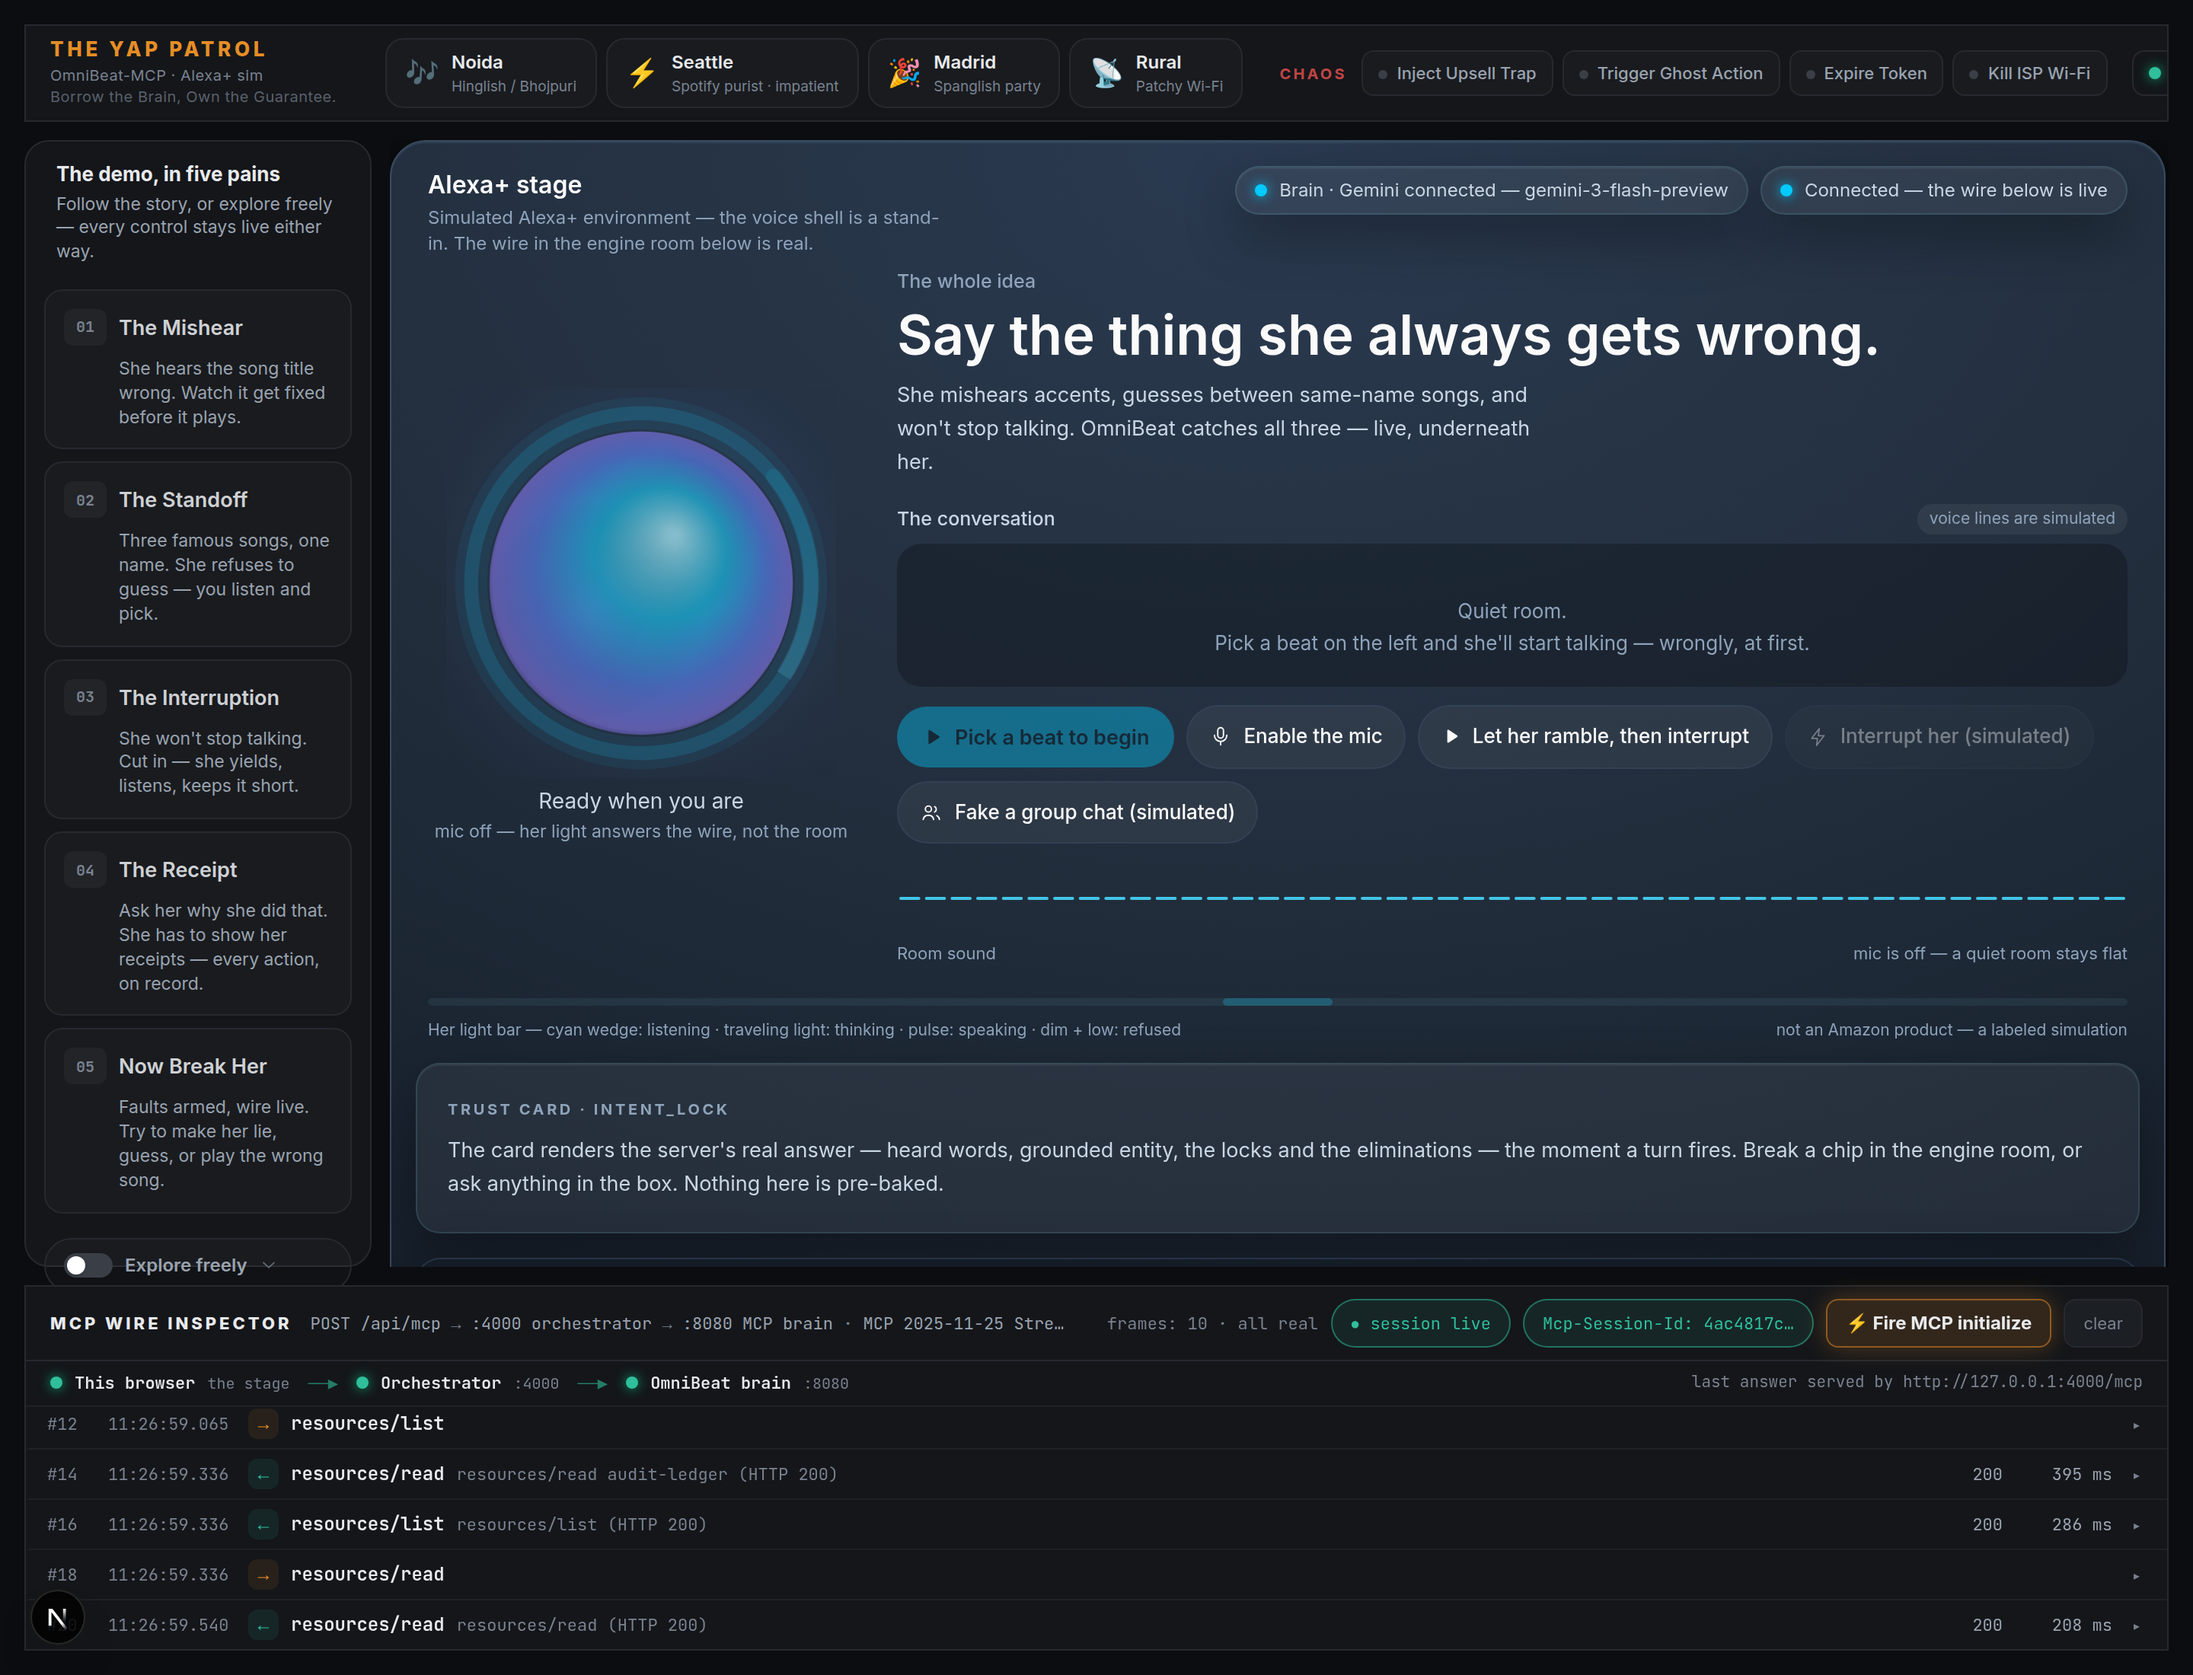
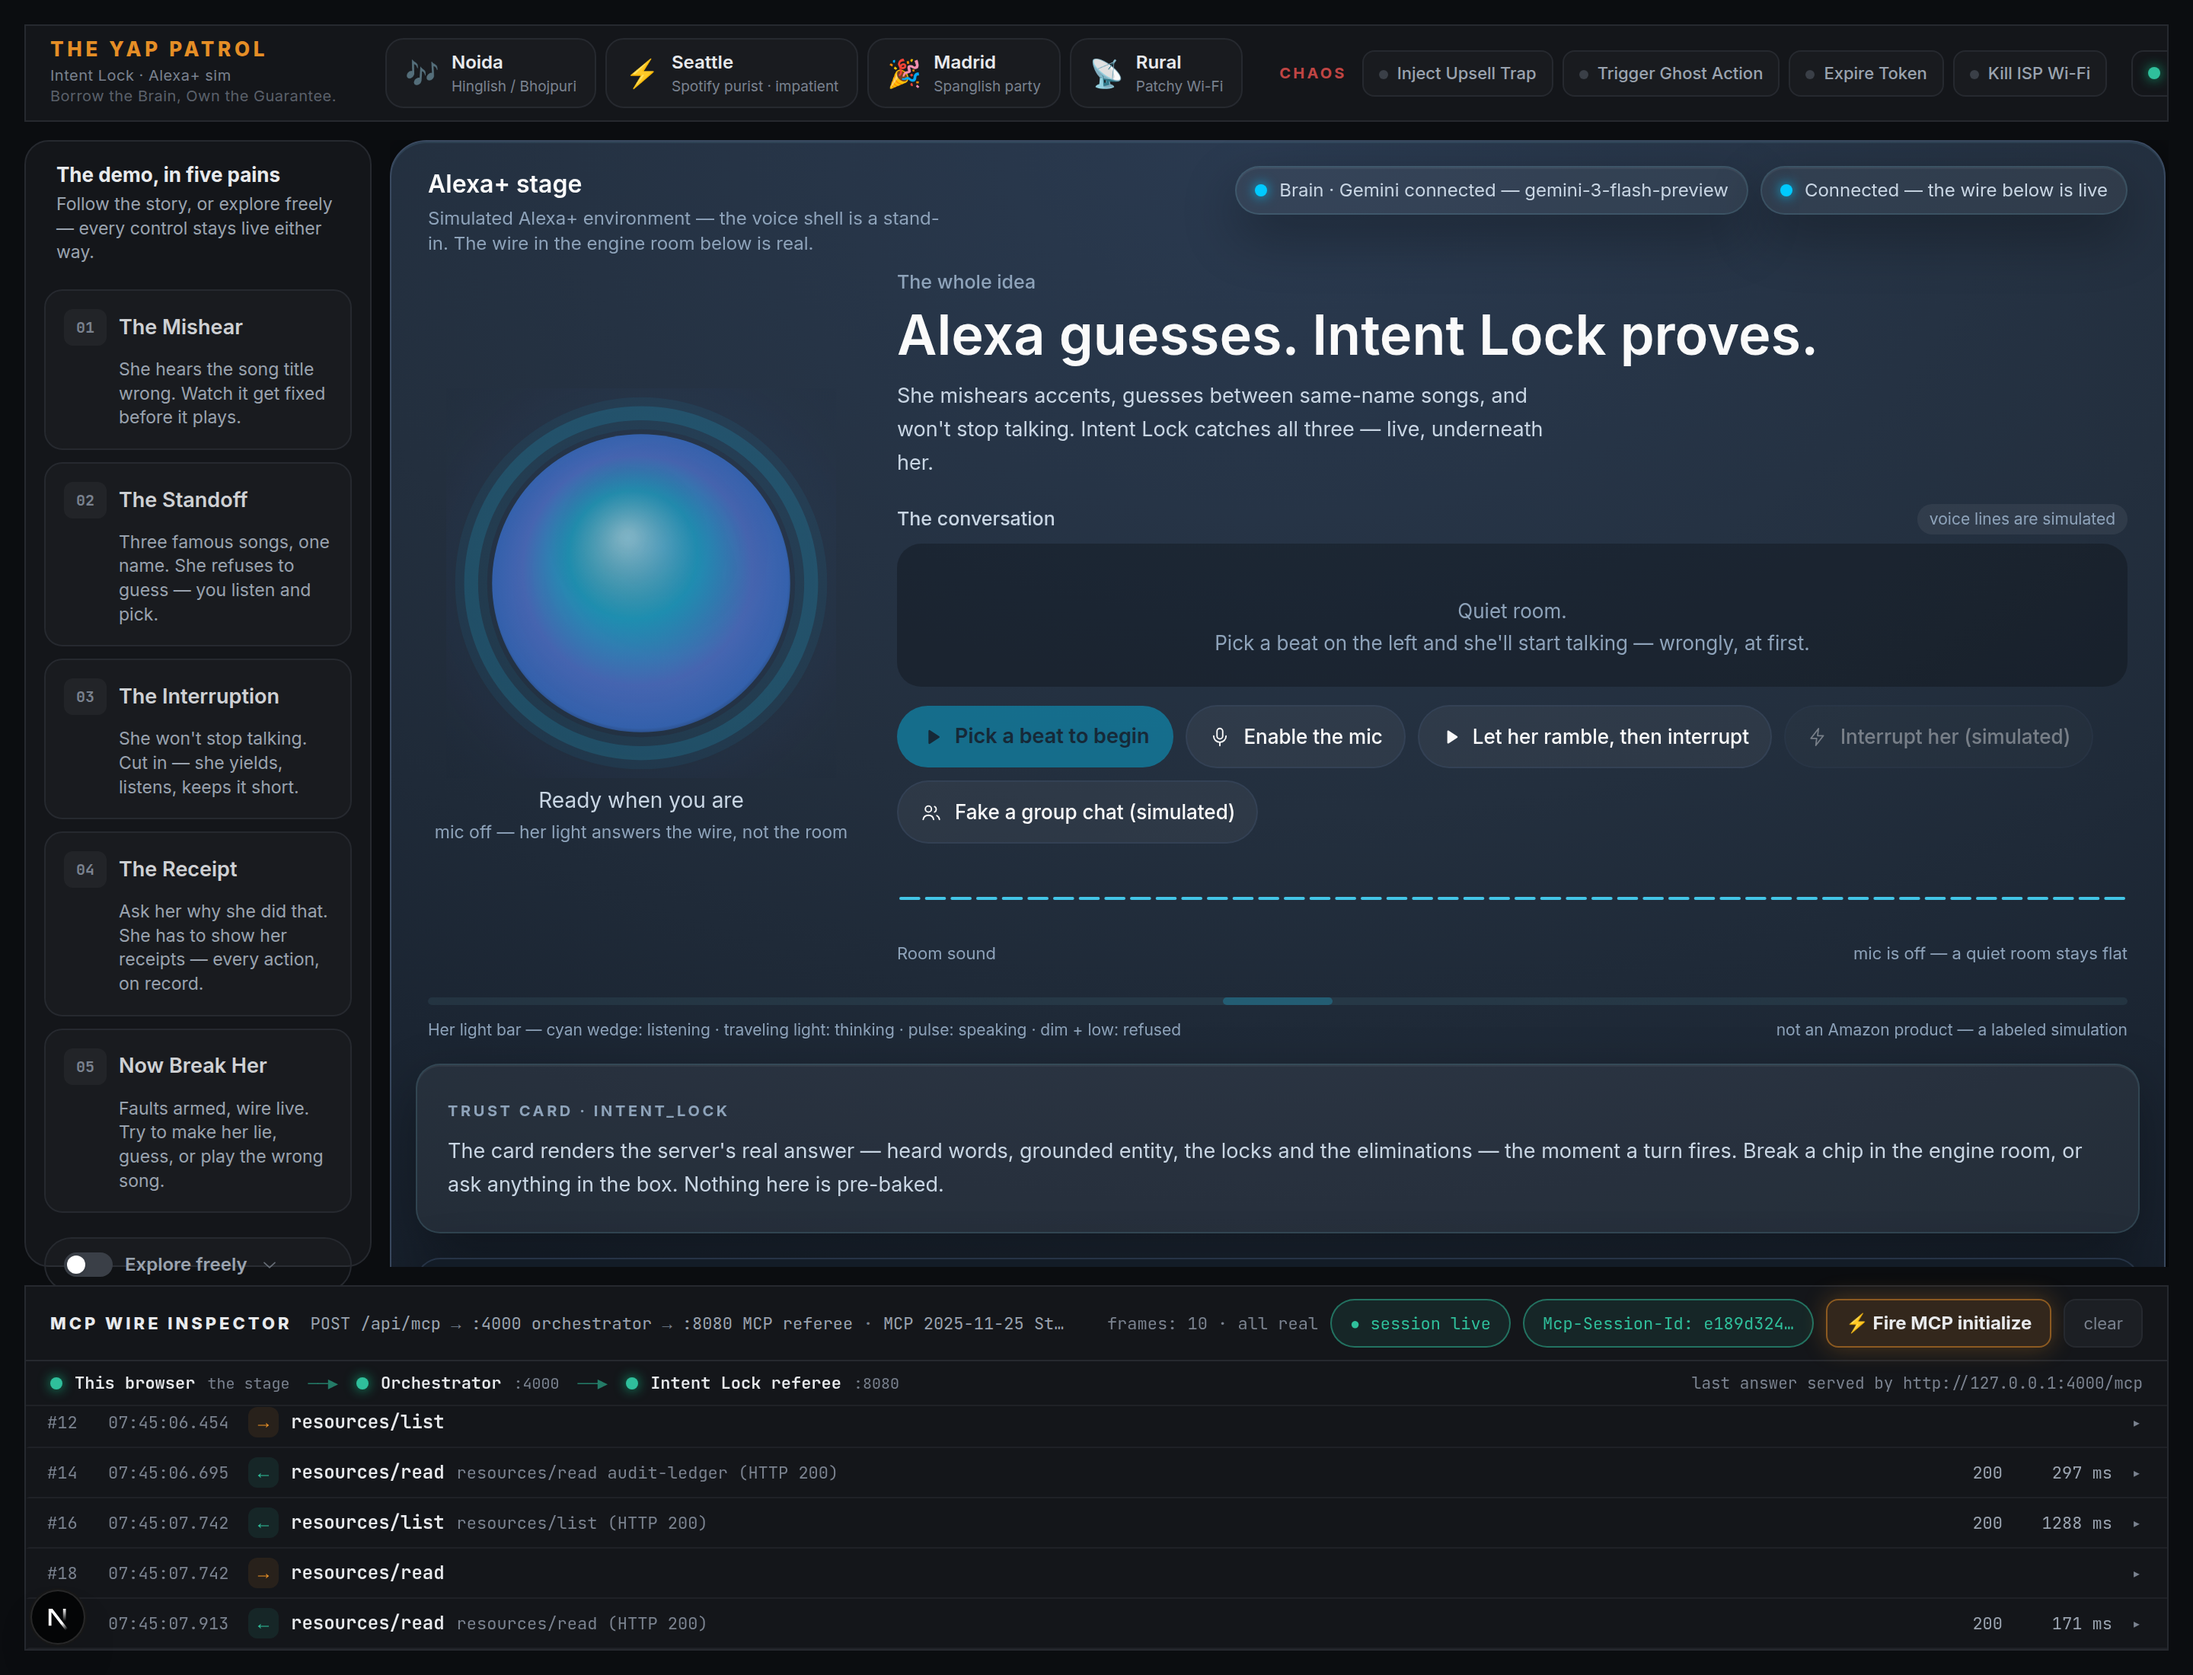
Final submission fixes: purge staging doc residue, per-tool feedback, hero shot recapture

diff --git a/docs/OPERATIONS.md b/docs/OPERATIONS.md
@@ -14,7 +14,7 @@ The services are separate processes and communicate over HTTP.
 | --- | --- | --- | --- |
 | 3000 | Alexa+ simulator | `apps/alexa-plus-simulator/` | Next.js stage, Trust Card UI, wire inspector, and browser API routes |
 | 4000 | Alexa agent orchestrator | `services/alexa-agent-orchestrator/` | Host-side extraction and routing; a real MCP client to the server |
-| 8080 | Intent Lock MCP server | `services/omnibeat-mcp-server/` | The deterministic MCP 2025-11-25 server and `intent_lock` tool |
+| 8080 | Intent Lock MCP server | `services/intent-lock-server/` | The deterministic MCP 2025-11-25 server and `intent_lock` tool |
 | 9000 | Chaos and provider mock | `services/chaos-and-provider-mock/` | Provider stand-in and fault-injection harness |
 
 The normal request chain is browser → simulator `:3000` →
@@ -91,7 +91,7 @@ its root page and exposes an application-level brain probe.
 
 | Check | Expected response |
 | --- | --- |
-| `GET http://127.0.0.1:8080/health` | JSON with `status: "ok"`, `server: "omnibeat-mcp-server"`, `version: "0.1.0"`, `protocol: "2025-11-25"`, and a Boolean `chaos_mode` |
+| `GET http://127.0.0.1:8080/health` | JSON with `status: "ok"`, `server: "intent-lock-server"`, `version: "0.1.0"`, `protocol: "2025-11-25"`, and a Boolean `chaos_mode` |
 | `GET http://127.0.0.1:4000/health` | JSON with `status: "ok"`, the orchestrator service and version, a `brain` description, `protocol: "2025-11-25"`, `mcp_server_url`, an `mcp` object with `reachable` and, when available, `protocol`, plus the active cost/credential route |
 | `GET http://127.0.0.1:9000/health` | JSON with `status: "ok"`, `service: "chaos-and-provider-mock"`, `version: "0.1.0"`, the active `mode`, `catalog_tracks: 30`, and `protocol: "http-json"` |
 | `GET http://127.0.0.1:3000/` | The simulator page with a successful HTTP response |
@@ -161,13 +161,13 @@ Before starting a clean demo, confirm that this runtime file is
 absent:
 
 ```text
-services/omnibeat-mcp-server/src/intent_rules.json
+services/intent-lock-server/src/intent_rules.json
 ```
 
 POSIX check:
 
 ```bash
-test ! -e services/omnibeat-mcp-server/src/intent_rules.json
+test ! -e services/intent-lock-server/src/intent_rules.json
 ```
 
 The MCP server loads standing rules from that path. If the file is
@@ -191,15 +191,6 @@ make clean        # stop and delete the ledger volume
 
 Direct equivalents use `docker compose` from the repository root.
 
-## Render path
-
-`render.yaml` defines one Docker web service named `omnibeat-demo`.
-It uses `deploy/hf-spaces/Dockerfile` with the repository root as the
-Docker context, declares `/` as the health-check path, and supplies
-no environment variables. That image runs the four project processes
-under supervisord; see [deploy/hf-spaces/README.md](../deploy/hf-spaces/README.md)
-for the shared all-in-one container notes and its verification status.
-
 ## Troubleshooting
 
 | Symptom | Likely cause | Action |
@@ -211,7 +202,7 @@ for the shared all-in-one container notes and its verification status.
 | Simulator loads, but the wire view stays dark | Orchestrator or MCP server is down, or the simulator's upstream points elsewhere | Check `:3000/api/brain`, `MCP_UPSTREAM`, `MCP_FALLBACK`, and both backend health routes |
 | Turns work, but the UI names the local floor | No `GEMINI_API_KEY` reached the orchestrator process | This is the supported keyless mode. To use Gemini, export the key in the same shell, stop the stack, and start it again |
 | Fault headers have no effect | The relevant service was not started in armed mode | Stop the stack and start it with `CHAOS=1` on POSIX, or use the Compose chaos settings above |
-| Standing rules fire in a supposedly clean demo | `services/omnibeat-mcp-server/src/intent_rules.json` exists | Follow the clean-demo rule above |
+| Standing rules fire in a supposedly clean demo | `services/intent-lock-server/src/intent_rules.json` exists | Follow the clean-demo rule above |
 | Bootstrap reports a missing phonetic or orchestrator build | A fresh clone has no generated `dist/` output | Rerun the platform bootstrap; it builds `packages/polyglot-phonetic-judo` and `services/alexa-agent-orchestrator` |
 | Python or Node is rejected during bootstrap | The project requires Python 3.10+ and Node 20+ | Install a supported runtime, open a fresh shell, and rerun bootstrap |
 | Compose services never become healthy | A container failed its own `/health` probe | Run `docker compose ps`, inspect `docker compose logs`, and compare the failing service with the health table above |

diff --git a/docs/DEVELOPMENT.md b/docs/DEVELOPMENT.md
@@ -10,14 +10,12 @@ and the conventions already present in the tree.
 apps/
   alexa-plus-simulator/       Next.js stage on :3000
 services/
-  omnibeat-mcp-server/        Intent Lock MCP server on :8080
+  intent-lock-server/         Intent Lock MCP server on :8080
   alexa-agent-orchestrator/   Host-side orchestrator on :4000
   chaos-and-provider-mock/    Provider mock and fault harness on :9000
 packages/
   polyglot-phonetic-judo/     Standalone phonetic-grounding package
 scripts/                      Bootstrap and demo launchers (.sh and .ps1)
-deploy/
-  hf-spaces/                  All-in-one Docker image and supervisord config
 docs/                         Spec, guides, evidence, and project records
 ```
 
@@ -33,7 +31,7 @@ docs/                         Spec, guides, evidence, and project records
   workers.
 - `public/` — local hooks and voice-activity assets used by the stage.
 
-### The MCP server — `services/omnibeat-mcp-server/`
+### The MCP server — `services/intent-lock-server/`
 
 This is the product's center.
 
@@ -85,8 +83,6 @@ is a real MCP-over-HTTP call.
 For behavior or wire changes, begin in
 [12_INTENT_LOCK_SPEC.md](12_INTENT_LOCK_SPEC.md) and the affected
 service's README. State the intended contract before changing code.
-If the change reverses a recorded decision, update
-[DECISION_LOG.md](DECISION_LOG.md) as part of the same change.
 
 Keep the architectural boundary intact:
 
@@ -99,14 +95,14 @@ Keep the architectural boundary intact:
 
 | Kind of change | Owning place |
 | --- | --- |
-| Tool schema, verdict, elimination, or pin behavior | Spec first, then `services/omnibeat-mcp-server/src/server.py` and `src/engines/intent_lock.py` |
+| Tool schema, verdict, elimination, or pin behavior | Spec first, then `services/intent-lock-server/src/server.py` and `src/engines/intent_lock.py` |
 | Operator or locale behavior | `src/sublocal_grammar.json` when the existing operator model is sufficient; kernel code only when the model itself changes |
 | Catalog rows or domain packs | The relevant JSON supply file, preserving each row's provenance |
 | Host extraction or turn routing | `services/alexa-agent-orchestrator/` |
 | Stage or Trust Card presentation | `apps/alexa-plus-simulator/` |
 | Provider failure behavior | `services/chaos-and-provider-mock/` and the affected consumer |
 | Phonetic ranking shared with the package | `packages/polyglot-phonetic-judo/`, then verify the server's sidecar path |
-| Startup, ports, health, or deployment | `scripts/`, `Makefile`, `docker-compose.yml`, `deploy/`, and [OPERATIONS.md](OPERATIONS.md) |
+| Startup, ports, health, or deployment | `scripts/`, `Makefile`, `docker-compose.yml`, and [OPERATIONS.md](OPERATIONS.md) |
 
 ### 3. Verify at the smallest level first
 

diff --git a/docs/INDEX.md b/docs/INDEX.md
@@ -27,7 +27,7 @@ for honesty, superseded where it conflicts with a CANONICAL file.
 | `MCP_PROTOCOL_PROOF.md` | Wire-level evidence that the server speaks MCP 2025-11-25 (handshake, session, tool calls, a third-party client) | Judges and engineers verifying the protocol claim | CANONICAL |
 | `FRICTION_LOG_FINAL.md` | The complete Developer Friction Log, FL-01…FL-24, in the rules' field order | Judges (it is the bonus document); platform teams | CANONICAL |
 | `PLAIN_WORDS.md` | The project explained with no jargon at all | Non-programmers | GUIDE |
-| `OPERATIONS.md` | Service map, startup and shutdown, Docker and Render paths, health checks, configuration, and troubleshooting | Operators running the four-service stack | GUIDE |
+| `OPERATIONS.md` | Service map, startup and shutdown, Docker path, health checks, configuration, and troubleshooting | Operators running the four-service stack | GUIDE |
 | `DEVELOPMENT.md` | Contributor map, change flow, verification paths, and conventions present in the tree | Contributors and maintainers | GUIDE |
 | `INSTALL_MACOS.md` | Install and run instructions for macOS | Anyone booting the demo on a Mac | GUIDE |
 | `INSTALL_WINDOWS.md` | Install and run instructions for Windows (native PowerShell launchers) | Anyone booting the demo on Windows | GUIDE |
@@ -35,7 +35,5 @@ for honesty, superseded where it conflicts with a CANONICAL file.
 | `shots/main-interface.png` | Capture: the Alexa+ simulator stage with the live wire and Trust Card (the README hero shot) | Presentation asset | GUIDE |
 | `shots/trust-card.png` | Capture: a `locked` Trust Card with its elimination list | Presentation asset | GUIDE |
 | `shots/tie-card.png` | Capture: a `tie_choice` Trust Card awaiting a pin | Presentation asset | GUIDE |
-| `shots/devpost-thumbnail.png` | The Devpost project thumbnail (3:2) | Presentation asset | GUIDE |
-| `shots/video-poster.jpg` | Poster frame from the demo video (16:9) | Presentation asset | GUIDE |
 | `.nojekyll` | GitHub Pages marker file (serves `index.html` raw); not a document | Nobody | GUIDE |
 | `INDEX.md` | This index | Anyone lost in this folder | GUIDE |

diff --git a/docs/shots/README.md b/docs/shots/README.md
@@ -9,7 +9,6 @@ clicking the same path, it does not belong here.
 | `main-interface.png` | The Alexa+ simulator stage — the main interface: conversation on the left, the live Intent Lock wire and Trust Card on the right. *(Hero shot; linked from the root README.)* |
 | `tie-card.png` | A `tie_choice` Trust Card: two recordings of one name, told apart by year, film and version chips — the user taps to pin; the server re-verifies. |
 | `trust-card.png` | A `locked` Trust Card: the winning recording, its lock score against the floor, and the transparent elimination list under it. |
-| `video-poster.jpg` | Poster frame from the demo video. |
 
 `main-interface.png`, `tie-card.png` and `trust-card.png` are captured
 from the final verified build at submission time.

diff --git a/docs/INSTALL_WINDOWS.md b/docs/INSTALL_WINDOWS.md
@@ -75,8 +75,8 @@ Invoke-RestMethod http://127.0.0.1:8080/health
 Notes:
 
 - `bootstrap.ps1` is idempotent — safe to rerun. It creates the Python venv
-  at `%LOCALAPPDATA%\omnibeat-mcp\venv` (the Windows equivalent of the bash
-  path `~/.cache/omnibeat-mcp/venv`; the interpreter inside is
+  at `%LOCALAPPDATA%\intent-lock\venv` (the Windows equivalent of the bash
+  path `~/.cache/intent-lock/venv`; the interpreter inside is
   `Scripts\python.exe`), installs both Python services' requirements,
   builds the phonetic package and the orchestrator, and installs the
   simulator's dependencies. It ends with a readiness summary; fix any

diff --git a/README.md b/README.md
@@ -166,7 +166,7 @@ not buried: see **Known limitations** in
 
 ```
 apps/alexa-plus-simulator/    the stage: Alexa+ simulator + Trust Card UI
-services/omnibeat-mcp-server/ the Intent Lock MCP server (the hero)
+services/intent-lock-server/  the Intent Lock MCP server (the hero)
 services/alexa-agent-orchestrator/  host-side orchestrator (Gemini brain, advisory only)
 services/chaos-and-provider-mock/   fault-injection rig for the outage act
 packages/polyglot-phonetic-judo/    the phonetic grounding library (also standalone, MIT)
